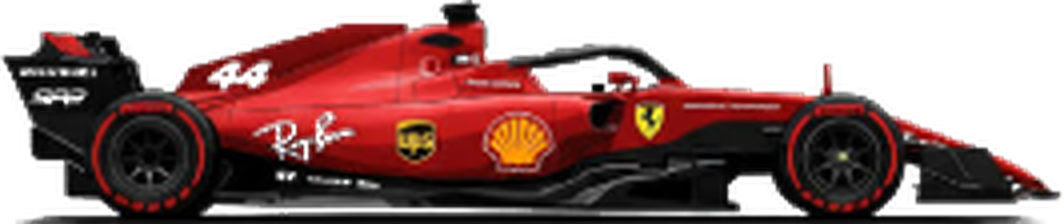
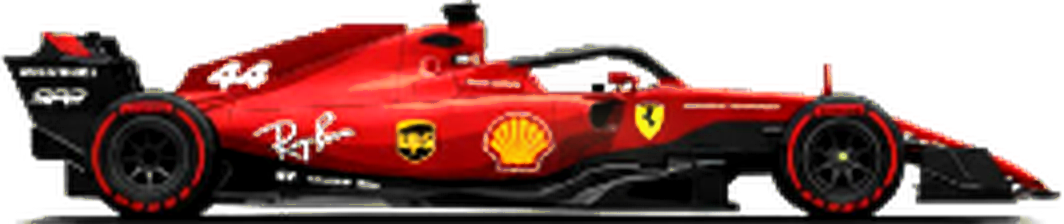
Add files via upload

diff --git a/shared.js b/shared.js
@@ -5,7 +5,7 @@ const $$ = s => [...document.querySelectorAll(s)];
 const esc = s => String(s ?? '').replace(/[&<>"']/g, c => ({'&':'&amp;','<':'&lt;','>':'&gt;','"':'&quot;',"'":'&#39;'}[c]));
 const ym = d => (d || new Date()).toISOString().slice(0,7);
 const nowIso = () => new Date().toISOString();
-const TQR_APP_VERSION = 'v6.14.16';
+const TQR_APP_VERSION = 'v6.14.17';
 
 
 const TQR_VIEW_KEY = 'tqr_portal_view';
@@ -42,10 +42,13 @@ function applyPortalViewClass(){
   document.body?.classList.toggle('testing-view',isTestingPortalView());
 }
 function bindPortalViewSwitch(){
-  document.querySelectorAll('[data-view-mode]').forEach(btn=>{
-    btn.onclick=()=>setPortalView(btn.dataset.viewMode);
-  });
+  const sw=document.querySelector('[data-view-toggle]');
+  if(sw){
+    sw.checked=isTestingPortalView();
+    sw.onchange=()=>setPortalView(sw.checked?'testing':'public');
+  }
 }
+
 function publicAllowedPages(){
   return ['dashboard','active','bays'];
 }
@@ -113,9 +116,12 @@ function navHtml(active){
       url.searchParams.set('view',currentView);
       return `<a class="navtab ${active===id?'active':''}" href="${url.pathname.split('/').pop()}${url.search}"><span>${icon}</span>${label}</a>`;
     }).join('')}</nav>
-  <div class="portal-view-toggle" aria-label="Portal view mode">
-    <button type="button" class="portal-view-btn ${currentView==='public'?'active':''}" data-view-mode="public">Public View</button>
-    <button type="button" class="portal-view-btn ${currentView==='testing'?'active':''}" data-view-mode="testing">Testing View</button>
+  <div class="portal-view-toggle compact" aria-label="Portal view mode" title="View">
+    <span class="portal-view-title">View</span>
+    <label class="portal-view-switch" aria-label="View toggle">
+      <input type="checkbox" data-view-toggle ${currentView==='testing'?'checked':''}>
+      <span class="portal-view-slider"></span>
+    </label>
   </div>
   <div class="navright"><span class="live-dot"></span><span class="live-label">Live</span><div class="clockbox"><span id="dateNow"></span><b id="timeNow"></b></div></div>`;
 }

diff --git a/styles.css b/styles.css
@@ -842,3 +842,68 @@ body.public-view .metric.stock{display:none!important}
   .race-car{width:100px!important;height:31px!important;top:2px!important}
   .f1-real-car{width:94px}
 }
+
+
+/* v6.14.17 generic view switch label + brighter Ferrari logo */
+.portal-view-toggle.compact{
+  display:flex;
+  align-items:center;
+  gap:10px;
+  padding:6px 10px;
+  border:1px solid #1a5d83;
+  border-radius:12px;
+  background:linear-gradient(180deg,#08243a,#061a2a);
+  box-shadow:inset 0 0 14px rgba(0,192,255,.06);
+}
+.portal-view-title{
+  color:#dff7ff;
+  font-weight:800;
+  letter-spacing:.02em;
+  font-size:14px;
+}
+.portal-view-switch{
+  position:relative;
+  display:inline-flex;
+  width:52px;
+  height:28px;
+  cursor:pointer;
+}
+.portal-view-switch input{position:absolute;opacity:0;inset:0}
+.portal-view-slider{
+  position:absolute;
+  inset:0;
+  border-radius:999px;
+  border:1px solid #2176a4;
+  background:linear-gradient(180deg,#061523,#0a2740);
+  box-shadow:inset 0 0 10px rgba(0,192,255,.09);
+  transition:all .18s ease;
+}
+.portal-view-slider:before{
+  content:'';
+  position:absolute;
+  left:3px; top:3px;
+  width:20px; height:20px;
+  border-radius:50%;
+  background:linear-gradient(180deg,#96e8ff,#2aa9f0);
+  box-shadow:0 0 14px rgba(42,207,255,.35);
+  transition:transform .18s ease, background .18s ease;
+}
+.portal-view-switch input:checked + .portal-view-slider{
+  background:linear-gradient(180deg,#0d4f72,#0a3550);
+  border-color:#2acfff;
+  box-shadow:0 0 16px rgba(0,194,255,.14), inset 0 0 12px rgba(0,194,255,.12);
+}
+.portal-view-switch input:checked + .portal-view-slider:before{
+  transform:translateX(24px);
+  background:linear-gradient(180deg,#ffffff,#7de4ff);
+}
+@media(max-width:980px){
+  .portal-view-toggle.compact{order:3;width:auto;justify-content:center}
+}
+@media(max-width:700px){
+  .portal-view-toggle.compact{width:auto;justify-content:center;padding:6px 10px}
+  .portal-view-title{font-size:13px}
+}
+.f1-real-car{
+  filter:drop-shadow(0 0 5px rgba(255,25,25,.28)) saturate(1.05) contrast(1.04)!important;
+}

diff --git a/service-worker.js b/service-worker.js
@@ -1,4 +1,4 @@
-const CACHE_NAME='trinergy-pwa-v6.14.16';
+const CACHE_NAME='trinergy-pwa-v6.14.17';
 
 // Keep initial install deliberately small for iPhone/Safari.
 // Other pages/assets are cached on demand after first use.
